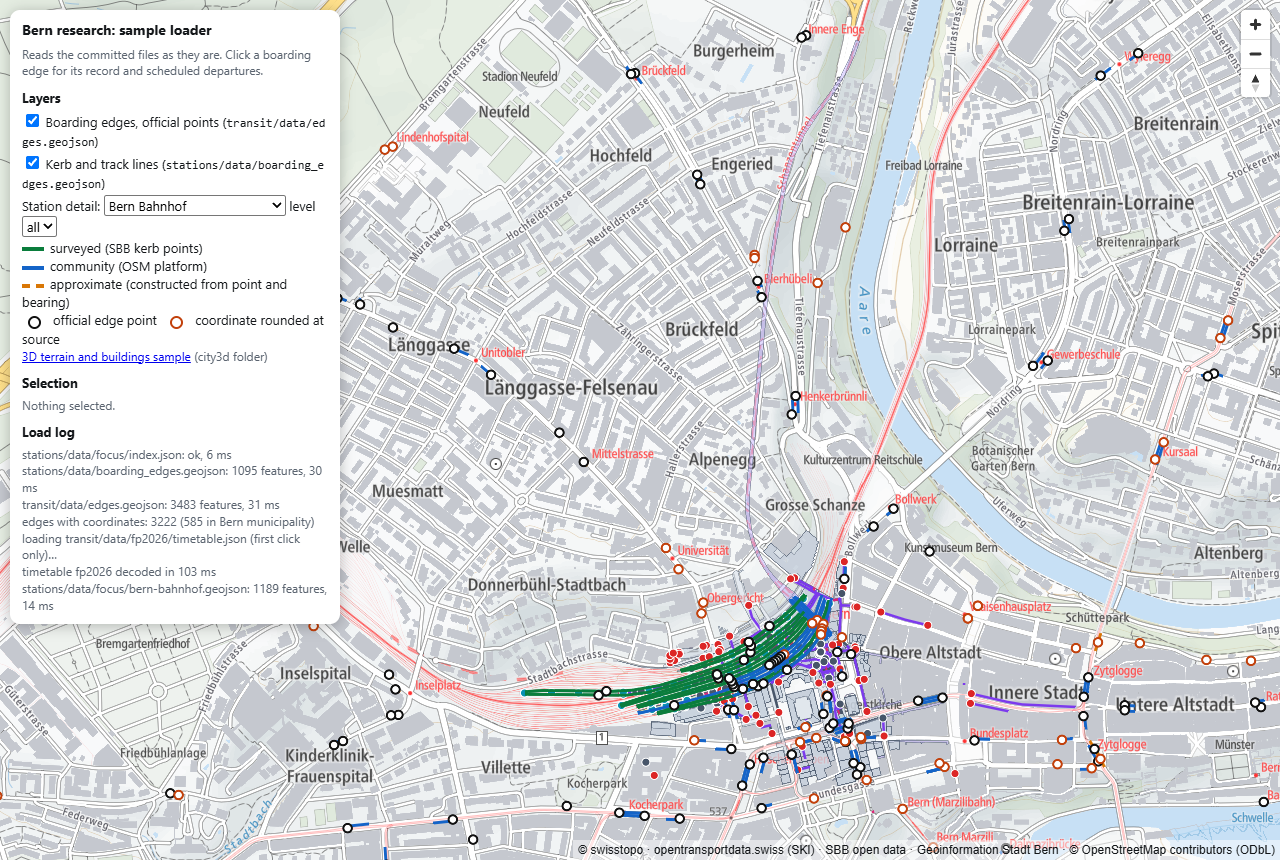
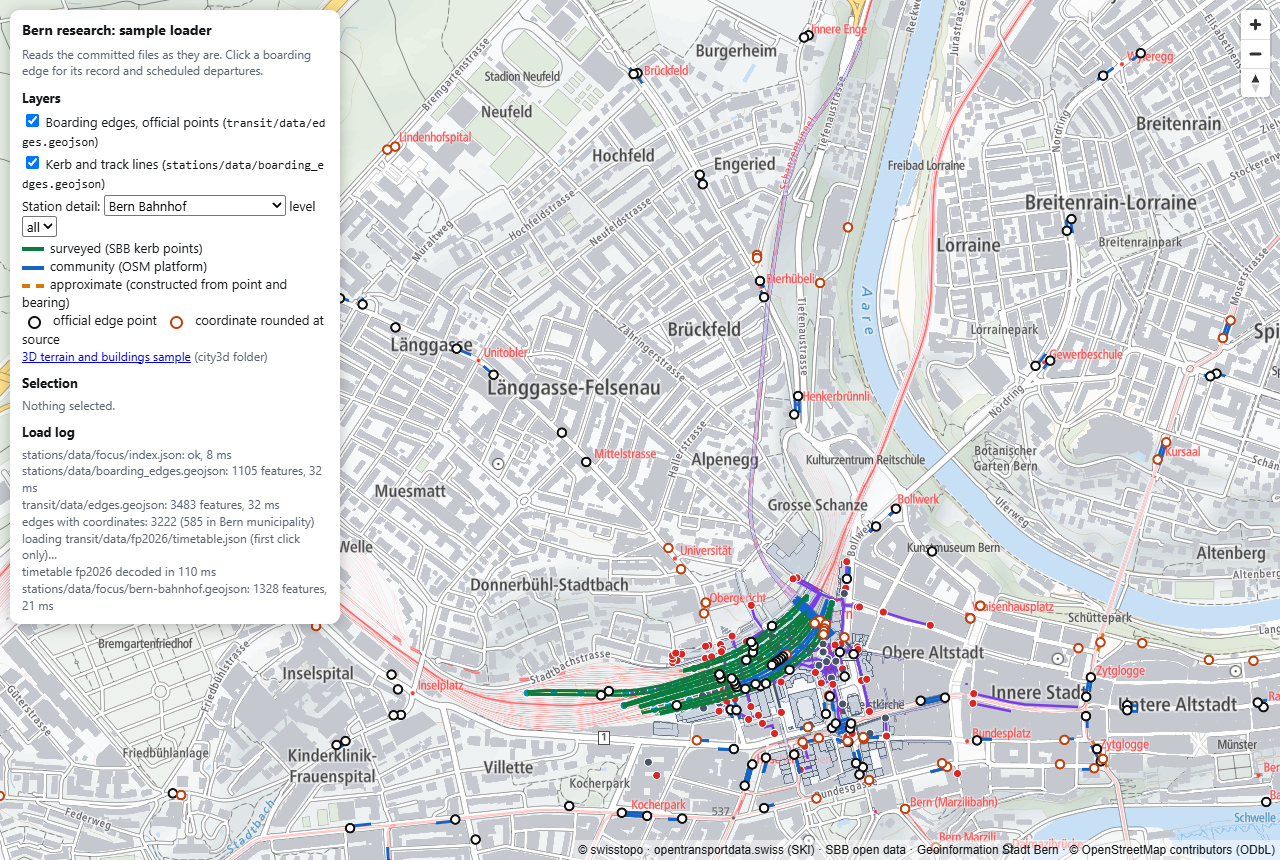
Add timetable cross-check against the live journey API
lead/validate/crosscheck_stationboard.js compares the committed timetable
with transport.opendata.ch station boards for the focus stations: 605 of 607
departures found at the same minute and line across three instants (weekday
morning, past midnight, 2027 feed), platform equal in all 592 cases where
both give one. Handoff updated to snapshot 5.

Changed region(s): [[0.0, 0.0, 1.0, 1.0], [0.25, 0.0, 0.2812, 0.0302], [0.0, 0.6349, 0.0312, 0.6651]]

diff --git a/bern-research/lead/validate/crosscheck_stationboard.js b/bern-research/lead/validate/crosscheck_stationboard.js
@@ -1,0 +1,39 @@
+// Independent cross-check of the committed timetable against the live Swiss journey API (transport.opendata.ch).
+//   node bern-research/lead/validate/crosscheck_stationboard.js [YYYY-MM-DD] [HH:MM]
+// For each focus station it asks the API for the next departures and looks each one up in
+// transit/data/<feed>/timetable.json by minute and line, then compares the platform or kerb.
+// Needs internet. Writes crosscheck_stationboard_<date>_<time>.json next to this file. Exit 1 if any station is below 90 % matched.
+const fs = require('fs'), path = require('path');
+const ROOT = path.resolve(__dirname, '..', '..');
+const date = process.argv[2] || '2026-11-23', time = process.argv[3] || '08:00';
+const feed = date > '2026-12-12' ? 'fp2027' : 'fp2026';
+const STATIONS = [['8507110', 'Bern, Zytglogge'], ['8576646', 'Bern, Bahnhof'], ['8507000', 'Bern'], ['8516161', 'Bern Wankdorf'], ['8590129', 'Bern, Wankdorf Bahnhof']];
+const BT = require(path.join(ROOT, 'transit', 'web', 'bern-transit.js'));
+const tt = BT.decode(JSON.parse(fs.readFileSync(path.join(ROOT, 'transit', 'data', feed, 'timetable.json'), 'utf8')));
+const norm = (s) => String(s || '').replace(/\s+/g, '').toUpperCase();
+const clock = (sec) => { const t = ((sec % 86400) + 86400) % 86400; return String(Math.floor(t / 3600)).padStart(2, '0') + ':' + String(Math.floor((t % 3600) / 60)).padStart(2, '0'); };
+
+(async () => {
+  const out = { run: new Date().toISOString(), date, time, feed, api: 'https://transport.opendata.ch/v1/stationboard', stations: [] }; let ok = true;
+  for (const [num, name] of STATIONS) {
+    const url = `https://transport.opendata.ch/v1/stationboard?id=${num}&datetime=${encodeURIComponent(date + ' ' + time)}&limit=40`;
+    let api; try { api = (await (await fetch(url)).json()).stationboard || []; } catch (e) { out.stations.push({ num, name, error: String(e) }); ok = false; continue; }
+    let ours = tt.departures(Number(num), date, time + ':00', 5000, 10 * 3600); if (!ours.length) ours = tt.departures(num, date, time + ':00', 5000, 10 * 3600);   // 10 h window: at night 40 API departures span several hours
+    let matched = 0, platSame = 0, platBoth = 0; const misses = [], platDiff = [];
+    for (const a of api) {
+      const hhmm = (a.stop.departure || '').slice(11, 16), line = norm(a.number), cat = norm(a.category);
+      const cand = ours.filter((o) => clock(o.wall_sec) === hhmm && [line, cat + line].includes(norm(o.route)));   // our times may read 24:01, the API says 00:01
+      if (!cand.length) { misses.push(`${hhmm} ${a.category}${a.number} -> ${a.to}`); continue; }
+      matched++;
+      const ap = norm(a.stop.platform); if (!ap) continue;
+      const withPlat = cand.filter((o) => o.platform); if (!withPlat.length) continue;
+      platBoth++;
+      if (withPlat.some((o) => norm(o.platform) === ap)) platSame++; else platDiff.push(`${hhmm} ${a.category}${a.number}: api ${a.stop.platform}, ours ${[...new Set(withPlat.map((o) => o.platform))].join('/')}`);
+    }
+    const share = api.length ? matched / api.length : 0; if (share < 0.9) ok = false;
+    out.stations.push({ num, name, api_departures: api.length, ours_in_window: ours.length, matched, share_matched: +share.toFixed(3), platform_compared: platBoth, platform_same: platSame, misses: misses.slice(0, 8), platform_differences: platDiff.slice(0, 8) });
+    console.log(`${share >= 0.9 ? 'PASS' : 'FAIL'} ${num} ${name}: ${matched}/${api.length} API departures found in our timetable; platform equal ${platSame}/${platBoth}` + (misses.length ? ` | misses: ${misses.slice(0, 3).join('; ')}` : '') + (platDiff.length ? ` | platform diffs: ${platDiff.slice(0, 3).join('; ')}` : ''));
+  }
+  out.ok = ok; fs.writeFileSync(path.join(__dirname, `crosscheck_stationboard_${date}_${time.replace(':', '')}.json`), JSON.stringify(out, null, 1));
+  process.exit(ok ? 0 : 1);
+})();

diff --git a/bern-research/MORNING-HANDOFF.md b/bern-research/MORNING-HANDOFF.md
@@ -1,6 +1,6 @@
 # Bern research: morning handoff
 
-**Status: in progress, snapshot 4.** Updated 2026-11-21 03:25 Europe/Zurich by the lead. Rewritten at each committed
+**Status: in progress, snapshot 5.** Updated 2026-11-21 04:50 Europe/Zurich by the lead. Rewritten at each committed
 snapshot; final at 07:00. Numbers are from the committed files at this snapshot and may still grow.
 
 - Checkout: `C:\Users\apfel\Documents\Coding\Powercoders-Hackathon`
@@ -91,6 +91,7 @@ snapshot; final at 07:00. Numbers are from the committed files at this snapshot 
 |---|---|---|
 | Lead validator (sizes, parsing, coordinates, ids, flags, manifests, credentials) and cross-folder joins | 0 FAIL, 19 WARN (03:01) | `python -I bern-research/lead/validate/validate.py` -> `lead/validate/REPORT.md` |
 | Sample loader smoke test in headless Chrome | 10 of 10 pass | `node bern-research/lead/validate/smoke_sample.js` -> `lead/validate/smoke/` |
+| Timetable against the live Swiss journey API (`transport.opendata.ch` station boards) for Zytglogge, Bern Bahnhof, Bern, Bern Wankdorf and Wankdorf Bahnhof | 605 of 607 departures found at the same minute and line, on Mon 2026-11-23 08:00, Sun 2026-11-22 23:30 (past midnight) and Mon 2026-12-14 17:30 (2027 feed). Platform or kerb equal in all 592 cases where both sides give one. The 2 misses are long-distance trains the API lists by train number. | `node bern-research/lead/validate/crosscheck_stationboard.js 2026-11-23 08:00` |
 | Transit worker checks (incl. timetable decode against the GTFS subset) | 75 checks, 0 failed | `python bern-research/transit/scripts/validate.py` |
 | Stations worker checks | 0 FAIL, 48 WARN | `python bern-research/stations/tools/validate.py` |
 
@@ -142,7 +143,7 @@ texts tonight; treat the licence fields as what the publisher states on the data
 | `94ace7d`, `dc2b49e` | Transit snapshots 1 and 2 |
 | `2487027` | References snapshot 1 |
 | `376e88c` | City 3D snapshot 1 (138 MB of data in 755 files) |
-| `acb14c1`, `33752f6`, `e9bf38b`, and the next commit | Stations snapshots 1 to 4 |
+| `acb14c1`, `33752f6`, `e9bf38b`, `3766ba6` | Stations snapshots 1 to 4 |
 | `ec017da` | Transit snapshot 3 (timetable slice, handoff) |
 | `17503fd` | References snapshot 2 (licensed image subset, manifest) |
 | `e5d9948` | Sample loader, smoke test |

diff --git a/bern-research/lead/validate/REPORT.md b/bern-research/lead/validate/REPORT.md
@@ -1,6 +1,6 @@
 # Validation report
 
-Run 2026-11-21T03:21:43+01:00 on HEAD `abf846f`, folders: transit, city3d, stations, references, lead.
+Run 2026-11-21T04:37:46+01:00 on HEAD `aa519e5`, folders: transit, city3d, stations, references, lead.
 
 **0 FAIL, 19 WARN, 104 OK**
 
